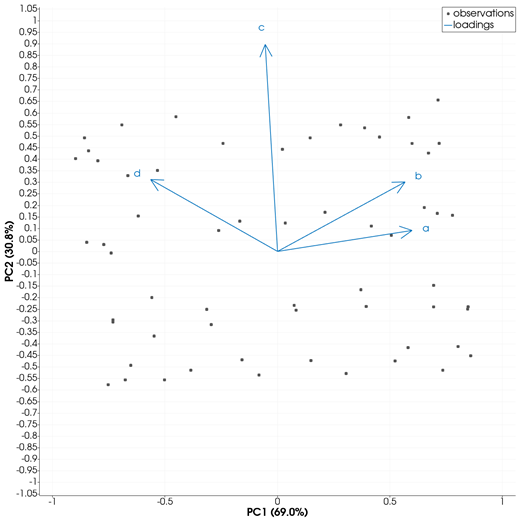
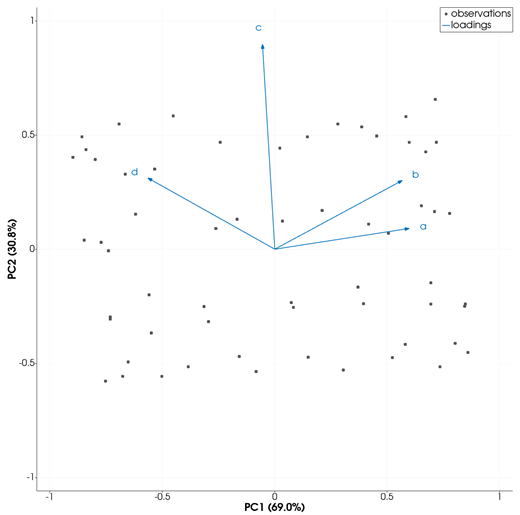
fix: X,Y series named "X" crash; biplot manual with MATLAB examples
- A series' table named its X column "X" and its Y column after the
  series, so a series called "X" (biplot(M) on mat2ds's X,Y,Z names,
  plot(...; legend="X")) gave two "X" columns and vtkPlot::SetInputData
  crashed. The columns are now "X" and "Y"; the name stays the label.
- biplot manual: the console biplot(), its keywords, draggable labels,
  and MATLAB's two 2-D examples (iris PC1/2 and PC3/4; carsmall plain,
  blue, red/bold/black). All 8 figures redrawn.

diff --git a/deps/src/65_xyplot.cpp b/deps/src/65_xyplot.cpp
@@ -1079,8 +1079,10 @@ static int xyAddSeries(XYPlot *s, const double *x, const double *y, int n,
 	se.table = vtkSmartPointer<vtkTable>::New();
 	// X is DOUBLE: epoch-seconds time values (~1.6e9) lose ~128 s of resolution in float32, which
 	// collapses finely-sampled series (e.g. minute-spaced tides) onto duplicate X. Y stays float.
+	// The columns are named "X" and "Y", never after the series: a series named "X" made two columns
+	// called "X", and vtkPlot::SetInputData crashed on it. The series' name lives in se.name / SetLabel.
 	vtkNew<vtkDoubleArray> ax; ax->SetName("X");                      se.table->AddColumn(ax);
-	vtkNew<vtkFloatArray> ay; ay->SetName(se.name.c_str());          se.table->AddColumn(ay);
+	vtkNew<vtkFloatArray> ay; ay->SetName("Y");                       se.table->AddColumn(ay);
 	se.table->SetNumberOfRows(n);
 	for (int i = 0; i < n; ++i) {
 		se.table->SetValue(i, 0, x[i]);
@@ -1147,7 +1149,7 @@ static int xyAddNowCross(XYPlot *s, double cx, double cy, double r, double g, do
 
 	se.table = vtkSmartPointer<vtkTable>::New();
 	vtkNew<vtkDoubleArray> ax; ax->SetName("X");             se.table->AddColumn(ax);
-	vtkNew<vtkFloatArray> ay; ay->SetName(se.name.c_str());  se.table->AddColumn(ay);
+	vtkNew<vtkFloatArray> ay; ay->SetName("Y");              se.table->AddColumn(ay);   // see xyAddSeries
 	se.table->SetNumberOfRows(5);
 	// Rough placeholder path -- a real cross only exists once xyRecomputeCross has real axis pixel
 	// spans to work from, which needs the chart to have actually laid out at least once.

diff --git a/docs/src/41-xyplot-biplot.md b/docs/src/41-xyplot-biplot.md
@@ -20,6 +20,17 @@ plot!(p, x, v2; legend="name2")    # more variables: one per series
 p = plot(D; multicol=true)         # a table: one variable per column after the first
 ```
 
+Or call **`biplot`** from the console, with GMT.jl's syntax. Every column of the data is a variable;
+they go on a page of their own, one series each, and the biplot on a new page, drawn by the same code
+the icon runs:
+
+```julia
+p = biplot(D)                      # a GMTdataset
+p = biplot("file.dat")             # a table file gmtread can read
+p = biplot(M)                      # a numeric matrix
+p = biplot(D; PC=(3, 4), varlabels=["a", "b", "c"], xlabel="Component 3", ylabel="Component 4")
+```
+
 ## Description
 
 - Each series of the page is one variable; only its **Y values** are used. A series with fewer than
@@ -41,12 +52,17 @@ p = plot(D; multicol=true)         # a table: one variable per column after the 
   The limits are symmetric about 0, rounded to round numbers and widened by 15 % so the arrow names
   stay inside; the page is square.
 - In the Object Manager the points are one row, `observations`, and the arrows another, `loadings`.
+  When the data carry a trailing text (the species of the iris data, say), the observations are
+  grouped by it, as GMT.jl's `biplot` groups them: one series per group, each in its own colour.
+- The variable names are labels on the page: **drag** any of them with the left mouse button to move
+  it. A saved session keeps them where they were dropped.
 
 ## Running the Examples
 
 Paste each example into the iGMT window's **Julia console**, or into the Julia REPL after
-`using InteractiveGMT`, then click **biplot** on the gallery row. The icon uses every series of the
-page, so no series needs to be selected.
+`using InteractiveGMT`. Where the example plots the variables, click **biplot** on the gallery row
+then; the icon uses every series of the page, so no series needs to be selected. Where it calls
+`biplot`, the biplot is drawn by that call.
 
 ## Examples
 
@@ -96,10 +112,93 @@ p = plot(M; multicol=true)
 
 ![](assets/xy_biplot_3.png)
 
+### Two Biplots of the Iris Data (MATLAB's "Specify Axes for Biplot")
+
+MATLAB's example on Fisher's iris data: the four measurements standardized, then the biplot of the
+first two principal components and the biplot of the third and fourth, both with the axes limited to
+[-1, 1]. GMT.jl ships the same data as `iris.dat` (the 150 measurements of MATLAB's `fisheriris`,
+value for value, with the species as trailing text, which groups the points by colour).
+
+```julia
+D = gmtread(GMT.TESTSDIR * "iris.dat")
+variables = ["SepalLength", "SepalWidth", "PetalLength", "PetalWidth"]
+p = biplot(D; varlabels=variables, xlim=(-1, 1), ylim=(-1, 1))
+```
+
+![](assets/xy_biplot_4.png)
+
+```julia
+p = biplot(D; PC=(3, 4), varlabels=variables, xlim=(-1, 1), ylim=(-1, 1),
+           xlabel="Component 3", ylabel="Component 4")
+```
+
+![](assets/xy_biplot_5.png)
+
+### Modify Biplot Properties (MATLAB's example)
+
+MATLAB's example on its `carsmall` data — acceleration, displacement and fuel consumption of 100 cars —
+shipped with InteractiveGMT as `data/carsmall.dat`. A car with any value missing is left out, as
+MATLAB's `rmmissing` leaves it. First the plain biplot, without variable names:
+
+```julia
+C = gmtread(joinpath(pkgdir(InteractiveGMT), "data", "carsmall.dat"))
+X = C.data[:, [1, 2, 4]]           # Acceleration, Displacement, MPG
+p = biplot(X; varlabels=:no)
+```
+
+![](assets/xy_biplot_6.png)
+
+Then every element blue, the observations as circles, and the variables named:
+
+```julia
+vbls = ["Accel", "Disp", "MPG"]
+p = biplot(X; cmap="blue", marker=:circle, varlabels=vbls, arrow=(0.3, 0.5, 0.75, "blue"))
+```
+
+![](assets/xy_biplot_7.png)
+
+And MATLAB's last step — the variable lines red, their names bold, the observations black:
+
+```julia
+p = biplot(X; cmap="black", marker=:circle, varlabels=vbls, arrow=(0.3, 0.5, 0.75, "red"), bold=true)
+```
+
+![](assets/xy_biplot_8.png)
+
+Every element can also be changed after the plot is made: right-click its row in the Object Manager
+for its properties.
+
 ## Input Arguments
 
 **`v1`, `v2`, ... — the variables**, the Y values of the series of the page, one series per
 variable; the values at the same position form one observation.
+
+**`D`, `"file.dat"`, `M` — the data**, for `biplot` from the console: a `GMTdataset`, a table file, or
+a matrix; one variable per column, one observation per row. A dataset's trailing text groups the
+observations.
+
+### Keywords of `biplot`
+
+GMT.jl's:
+
+- **`PC=(1, 2)`** — the two principal components plotted, e.g. `(3, 4)`.
+- **`varlabels=:yes`** — the variables' names: the column names (`A`, `B`, ... when the data have
+  none), `:no` for none, or a vector of names.
+- **`xlabel`, `ylabel`** — the axis titles (`PC1`, `PC2`, ... by default); the percentage of the
+  variance the component explains is added to them.
+- **`marker=:point`** — the observations' symbol: `:point` (a small circle), `:circle`, `:square`,
+  `:diamond`, `:cross`, `:plus`.
+- **`ms="auto"`** — the symbols' size, e.g. `"4p"` or a number in cm.
+- **`cmap=:categorical`** — the observations' colour: one colour per group, `"none"` (all black), or
+  one colour for every point (`"blue"`, `"#0072BD"`).
+- **`arrow=(0.3, 0.5, 0.75, "#0072BD")`** — `(len, shape, width, color)`; the arrows take their width
+  (points) and colour from it. Their heads are sized on the screen, so `len` and `shape` must stay at
+  their defaults.
+
+iGMT's own:
+
+- **`xlim`, `ylim`** — the axes' limits, e.g. `xlim=(-1, 1)`.
+- **`bold=false`** — the variable names in bold.
 
 ## See Also
 
